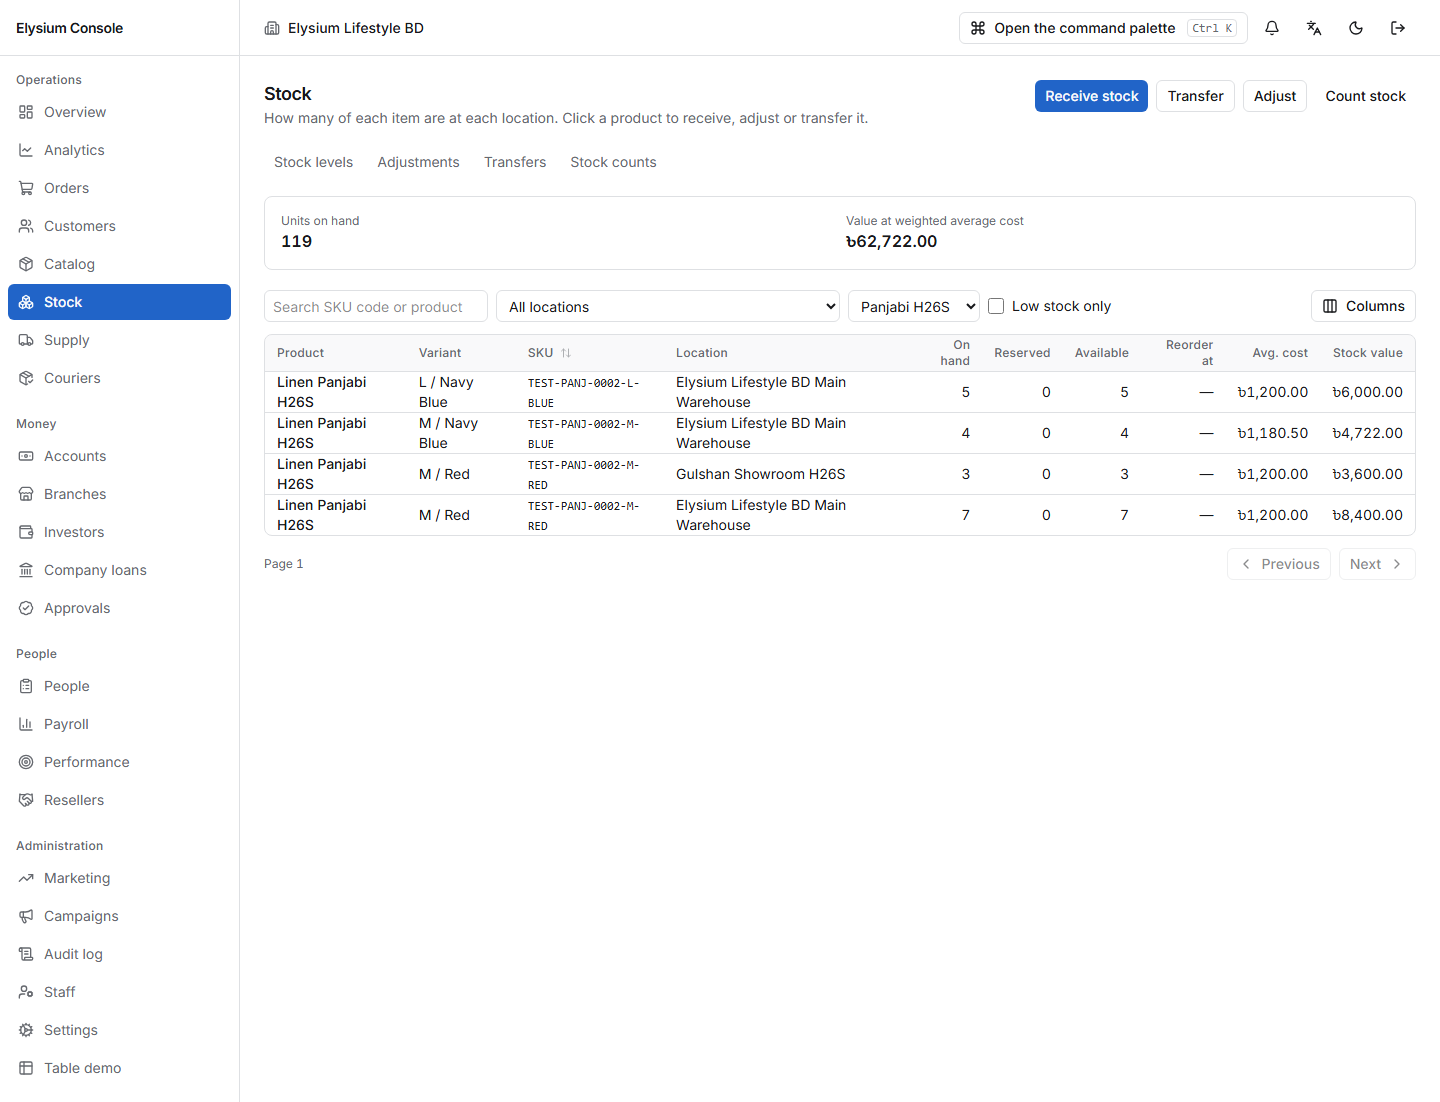
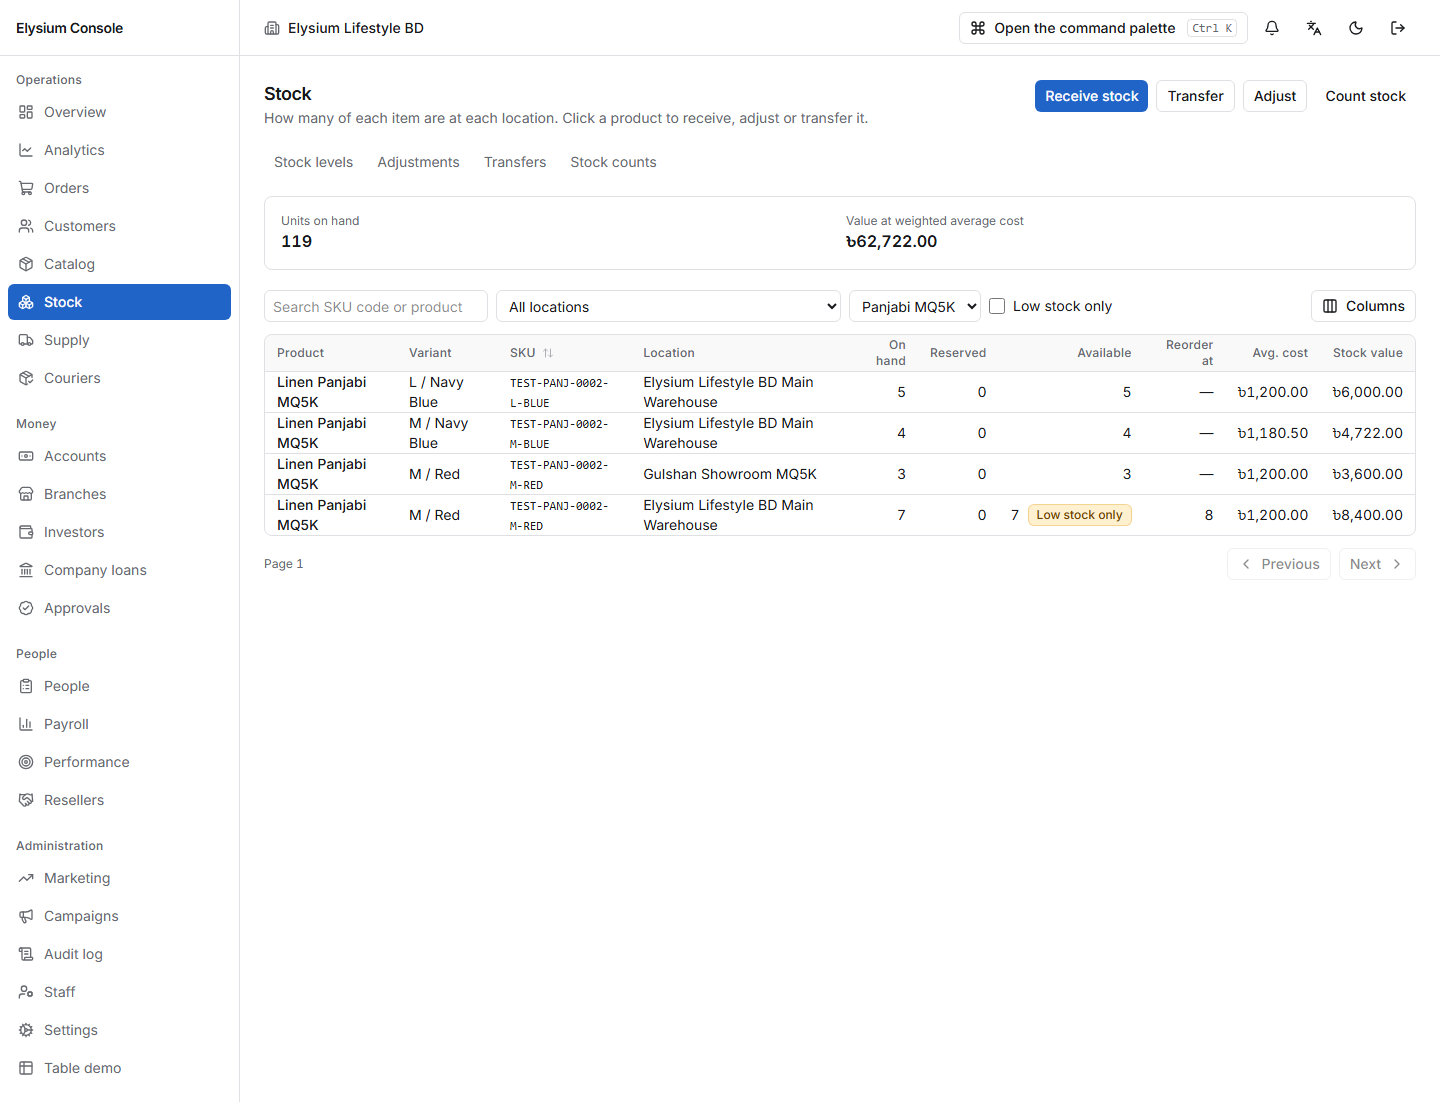
feat(catalog-stock-ux): low-stock alerts set from the product page
The reorder-level route existed but no screen set it, so Low never showed. The product
page's Low-stock alerts dialog sets the level per variant at a location; the stack spec
checks the badge.

diff --git a/apps/console/src/routes/catalog/stock-actions.tsx b/apps/console/src/routes/catalog/stock-actions.tsx
@@ -5,7 +5,13 @@ import { useState, type ReactNode } from 'react';
 import { ApiError } from '../../api.js';
 import { useAbility } from '../../auth/session.js';
 import { useT } from '../../i18n/locale.js';
-import { dispatchTransfer, listLocations, requestAdjustment, type StockRow } from '../stock/api.js';
+import {
+  dispatchTransfer,
+  listLocations,
+  requestAdjustment,
+  setReorderLevel,
+  type StockRow,
+} from '../stock/api.js';
 import { createDraft, createEntry, listSupplierOptions } from '../supply/api.js';
 import { parseQty } from './variant-grid.js';
 
@@ -661,6 +667,167 @@ export function TransferStockDialog({
         {submit.error !== null ? (
           <p role="alert" className="text-sm text-destructive">
             {errorText(submit.error, t('cs.saveFailed'))}
+          </p>
+        ) : null}
+      </div>
+    </Dialog>
+  );
+}
+
+// --- low-stock alerts -------------------------------------------------------------
+
+/**
+ * The level at which each variant counts as low at one location. The route existed
+ * (`PUT /v1/inventory/reorder-levels`) but nothing could set it, so "Low" never showed.
+ * One request per changed variant; 0 switches the alert off.
+ */
+export function ReorderDialog({
+  open,
+  onOpenChange,
+  variants,
+  stock,
+  onDone,
+}: {
+  readonly open: boolean;
+  readonly onOpenChange: (open: boolean) => void;
+  readonly variants: readonly VariantInfo[];
+  readonly stock: readonly StockRow[];
+  readonly onDone: () => void;
+}) {
+  const t = useT();
+  const [locationId, setLocationId] = useState('');
+  const [levels, setLevels] = useState<Record<string, string>>({});
+  const [saved, setSaved] = useState(false);
+
+  const locations = useQuery({
+    queryKey: ['stock', 'locations'],
+    queryFn: listLocations,
+    enabled: open,
+    staleTime: 5 * 60_000,
+  });
+  const choosable = (locations.data?.items ?? []).filter(
+    (location) =>
+      location.isActive && (location.kind === 'warehouse' || location.kind === 'showroom'),
+  );
+  const chosenLocation = locationId !== '' ? locationId : (choosable[0]?.id ?? '');
+  const current = (skuId: string) =>
+    stock.find((row) => row.skuId === skuId && row.locationId === chosenLocation)?.reorderLevel ??
+    0;
+
+  const changes = variants.flatMap((variant) => {
+    const text = levels[variant.id];
+    if (text === undefined) return [];
+    const trimmed = text.trim();
+    const value = trimmed === '' ? 0 : /^\d{1,7}$/.test(trimmed) ? Number(trimmed) : null;
+    return value === null || value === current(variant.id)
+      ? []
+      : [{ skuId: variant.id, reorderLevel: value }];
+  });
+  const invalid = variants.some((variant) => {
+    const text = (levels[variant.id] ?? '').trim();
+    return text !== '' && !/^\d{1,7}$/.test(text);
+  });
+
+  const save = useMutation({
+    mutationFn: async () => {
+      for (const change of changes) {
+        await setReorderLevel({ ...change, locationId: chosenLocation });
+      }
+    },
+    onSuccess: () => {
+      setSaved(true);
+      setLevels({});
+      onDone();
+    },
+  });
+
+  return (
+    <Dialog
+      open={open}
+      onOpenChange={(next) => {
+        if (!next) setSaved(false);
+        onOpenChange(next);
+      }}
+      title={t('cs.reorder.title')}
+      description={t('cs.reorder.help')}
+      closeLabel={t('cs.close')}
+      className={wide}
+      footer={
+        <>
+          <Button variant="outline" onClick={() => onOpenChange(false)}>
+            {t('cs.cancel')}
+          </Button>
+          <Button
+            disabled={changes.length === 0 || invalid || chosenLocation === '' || save.isPending}
+            onClick={() => save.mutate()}
+          >
+            {t('cs.save')}
+          </Button>
+        </>
+      }
+    >
+      <div className="space-y-4">
+        <Field label={t('cs.location')} id="reorder-location">
+          <select
+            id="reorder-location"
+            value={chosenLocation}
+            onChange={(event) => {
+              setLocationId(event.target.value);
+              setLevels({});
+            }}
+            className={control}
+          >
+            {choosable.map((location) => (
+              <option key={location.id} value={location.id}>
+                {location.name}
+              </option>
+            ))}
+          </select>
+        </Field>
+        <table className="w-full text-sm">
+          <caption className="sr-only">{t('cs.reorder.title')}</caption>
+          <thead>
+            <tr className="border-b border-border text-left text-xs text-muted-foreground">
+              <th scope="col" className="py-1.5">
+                {t('cs.col.variant')}
+              </th>
+              <th scope="col" className="w-32 py-1.5 text-right">
+                {t('cs.reorder.col')}
+              </th>
+            </tr>
+          </thead>
+          <tbody>
+            {variants.map((variant) => (
+              <tr key={variant.id} className="border-b border-border/60">
+                <td className="py-1.5 font-medium">
+                  {variant.label === '' ? variant.skuCode : variant.label}
+                </td>
+                <td className="py-1.5 text-right">
+                  <label className="sr-only" htmlFor={`reorder-${variant.id}`}>
+                    {`${t('cs.reorder.col')} ${variant.label || variant.skuCode}`}
+                  </label>
+                  <input
+                    id={`reorder-${variant.id}`}
+                    inputMode="numeric"
+                    value={levels[variant.id] ?? String(current(variant.id))}
+                    onChange={(event) =>
+                      setLevels((state) => ({ ...state, [variant.id]: event.target.value }))
+                    }
+                    className={`${control} w-24 text-right tabular-nums`}
+                  />
+                </td>
+              </tr>
+            ))}
+          </tbody>
+        </table>
+        {saved ? (
+          <p role="status" className="text-sm text-muted-foreground">
+            {t('cs.reorder.saved')}
+          </p>
+        ) : null}
+        {save.error !== null ? (
+          <p role="alert" className="text-sm text-destructive">
+            {errorText(save.error, t('cs.saveFailed'))}
           </p>
         ) : null}
       </div>

diff --git a/apps/console/src/routes/catalog/product-detail.tsx b/apps/console/src/routes/catalog/product-detail.tsx
@@ -40,6 +40,7 @@ import { ChipGroup, Field, PhotoUploader, Thumb } from './parts.js';
 import {
   AdjustStockDialog,
   ReceiveStockDialog,
+  ReorderDialog,
   TransferStockDialog,
   type VariantInfo,
 } from './stock-actions.js';
@@ -65,7 +66,7 @@ import { total } from './variant-grid.js';
 
 const route = getRouteApi('/catalog/$productId');
 
-type Dialogs = 'receive' | 'adjust' | 'transfer' | 'edit' | 'archive' | null;
+type Dialogs = 'receive' | 'adjust' | 'transfer' | 'reorder' | 'edit' | 'archive' | null;
 
 export function CatalogProductPage() {
   const ability = useAbility();
@@ -218,6 +219,7 @@ export function CatalogProductPage() {
           )}
           showStock={mayStock}
           mayWrite={mayWrite}
+          onReorder={() => setOpen('reorder')}
           onDone={refresh}
         />
 
@@ -245,6 +247,13 @@ export function CatalogProductPage() {
         <AdjustStockDialog
           open={open === 'adjust'}
           onOpenChange={(next) => setOpen(next ? 'adjust' : null)}
+          variants={variants}
+          stock={rows}
+          onDone={refresh}
+        />
+        <ReorderDialog
+          open={open === 'reorder'}
+          onOpenChange={(next) => setOpen(next ? 'reorder' : null)}
           variants={variants}
           stock={rows}
           onDone={refresh}
@@ -337,8 +346,10 @@ function VariantGrid({
   locations,
   showStock,
   mayWrite,
+  onReorder,
   onDone,
 }: {
+  readonly onReorder: () => void;
   readonly product: CatalogProduct | undefined;
   readonly rows: readonly StockRow[];
   readonly locations: readonly { id: string; name: string; code: string; kind: string }[];
@@ -425,9 +436,16 @@ function VariantGrid({
               </Button>
             </div>
           ) : (
-            <Button size="sm" variant="outline" onClick={() => setEditing(true)}>
-              {t('cs.hub.editPrices')}
-            </Button>
+            <div className="flex items-center gap-2">
+              {showStock ? (
+                <Button size="sm" variant="ghost" onClick={onReorder}>
+                  {t('cs.reorder.action')}
+                </Button>
+              ) : null}
+              <Button size="sm" variant="outline" onClick={() => setEditing(true)}>
+                {t('cs.hub.editPrices')}
+              </Button>
+            </div>
           )}
         </PermissionGate>
       </div>

diff --git a/packages/i18n/src/locales/bn.ts b/packages/i18n/src/locales/bn.ts
@@ -695,6 +695,12 @@ const bn: Record<MessageKey, string> = {
     'প্রতিটি লোকেশনে প্রতিটি আইটেম কয়টি আছে। স্টক গ্রহণ, সমন্বয় বা ট্রান্সফার করতে প্রোডাক্টে ক্লিক করুন।',
   'cs.stock.allCategories': 'সব ক্যাটাগরি',
   'cs.stock.count': 'স্টক গণনা',
+  'cs.reorder.action': 'কম স্টকের সতর্কতা',
+  'cs.reorder.title': 'কম স্টকের সতর্কতা',
+  'cs.reorder.help':
+    'এই লোকেশনে বিক্রয়যোগ্য পরিমাণ এই সংখ্যা বা তার নিচে নামলে ভ্যারিয়েন্টটি কম দেখাবে। ০ দিলে সতর্কতা বন্ধ।',
+  'cs.reorder.col': 'সতর্কতা যখন',
+  'cs.reorder.saved': 'সংরক্ষিত।',
 
   // Accounts — wallets, cash entries and day-end closings (M08).
   'accounts.title': 'হিসাব',

diff --git a/apps/console/e2e/catalog-stock.stack.ts b/apps/console/e2e/catalog-stock.stack.ts
@@ -221,6 +221,20 @@ test('receive a second delivery from the product page', async () => {
   await expect(mRed).toContainText('3');
   await expect(variants.getByRole('row', { name: /M \/ Navy Blue/ })).toContainText('4');
   await expect(page.getByRole('region', { name: 'Stock history' })).toContainText('Transferred in');
+
+  // A low-stock alert at the warehouse: 7 available against an alert at 8 shows Low.
+  await page.getByRole('button', { name: 'Low-stock alerts' }).click();
+  const alerts = page.getByRole('dialog', { name: 'Low-stock alerts' });
+  const warehouse = alerts.getByLabel('Location');
+  const warehouseValue = await warehouse
+    .locator('option', { hasText: 'Main Warehouse' })
+    .getAttribute('value');
+  await warehouse.selectOption(warehouseValue ?? '');
+  await alerts.getByLabel('Alert at M / Red').fill('8');
+  await alerts.getByRole('button', { name: 'Save' }).click();
+  await expect(alerts.getByRole('status')).toContainText('Saved');
+  await alerts.getByRole('button', { name: 'Cancel' }).click();
+  await expect(mRed).toContainText('Low');
   await shot('08-product-hub-after');
 });
 

diff --git a/apps/console/src/routes/stock/stock-levels.tsx b/apps/console/src/routes/stock/stock-levels.tsx
@@ -62,10 +62,14 @@ export function StockLevelsPage() {
     staleTime: 5 * 60_000,
   });
 
-  const transit = new Set(
-    (locations.data?.items ?? [])
-      .filter((location) => location.kind === 'in_transit')
-      .map((location) => location.id),
+  const transit = useMemo(
+    () =>
+      new Set(
+        (locations.data?.items ?? [])
+          .filter((location) => location.kind === 'in_transit')
+          .map((location) => location.id),
+      ),
+    [locations.data],
   );
 
   const categories = useQuery({
@@ -187,7 +191,7 @@ export function StockLevelsPage() {
         },
       }),
     ]);
-  }, [mayReadCost, st, t]);
+  }, [mayReadCost, st, t, transit]);
 
   return (
     <PermissionGate

diff --git a/packages/i18n/src/locales/en.ts b/packages/i18n/src/locales/en.ts
@@ -736,6 +736,12 @@ const en = {
     'How many of each item are at each location. Click a product to receive, adjust or transfer it.',
   'cs.stock.allCategories': 'All categories',
   'cs.stock.count': 'Count stock',
+  'cs.reorder.action': 'Low-stock alerts',
+  'cs.reorder.title': 'Low-stock alerts',
+  'cs.reorder.help':
+    'A variant shows Low when what is available at this location falls to this number or below. 0 turns the alert off.',
+  'cs.reorder.col': 'Alert at',
+  'cs.reorder.saved': 'Saved.',
 
   // Accounts — wallets, cash entries and day-end closings (M08).
   'accounts.title': 'Accounts',

diff --git a/apps/console/src/routes/stock/api.ts b/apps/console/src/routes/stock/api.ts
@@ -289,6 +289,15 @@ export function listMovements(input: {
   );
 }
 
+/** A SKU's low-stock level at one location (`PUT /v1/inventory/reorder-levels`). */
+export function setReorderLevel(input: {
+  readonly skuId: string;
+  readonly locationId: string;
+  readonly reorderLevel: number;
+}): Promise<unknown> {
+  return api.put('/v1/inventory/reorder-levels', input);
+}
+
 export function listAllLocations(): Promise<{ items: StockLocation[] }> {
   return api.get('/v1/inventory/locations?includeInactive=true');
 }

diff --git a/docs/plans/catalog-stock-ux.md b/docs/plans/catalog-stock-ux.md
@@ -30,7 +30,7 @@ no screen, or the screen cannot do it.
 | 11  | Adjust stock (damage, loss, found) with approval        | Hard       | Separate screen, one SKU per request, chosen from a list of codes. A gain for a size not yet at that location was impossible.                                                                                                |
 | 12  | Transfer warehouse to showroom, send and receive        | Impossible | A brand is seeded with one warehouse and no showroom and no in-transit location, and no screen could create either; the transfer route refuses without an in-transit location. One SKU per transfer.                         |
 | 13  | Stock count                                             | Easy       | Stock → Counts: open, enter counted quantities, submit, close (variances go for approval).                                                                                                                                   |
-| 14  | See stock per product, size, location; low stock        | Hard       | One flat list of SKU × location rows; no category filter, no product view, product names not linked, sizes shown only inside the code.                                                                                       |
+| 14  | See stock per product, size, location; low stock        | Hard       | One flat list of SKU × location rows; no category filter, no product view, product names not linked, sizes shown only inside the code. Low-stock highlighting needs a reorder level, and no screen could set one, so "Low" never showed.                                                                                       |
 | 15  | See a product's stock movement history                  | Impossible | `GET /v1/inventory/movements` existed; no screen read it.                                                                                                                                                                    |
 | 16  | Print barcodes or labels                                | Easy       | Product page, label sheet PDF.                                                                                                                                                                                               |
 
